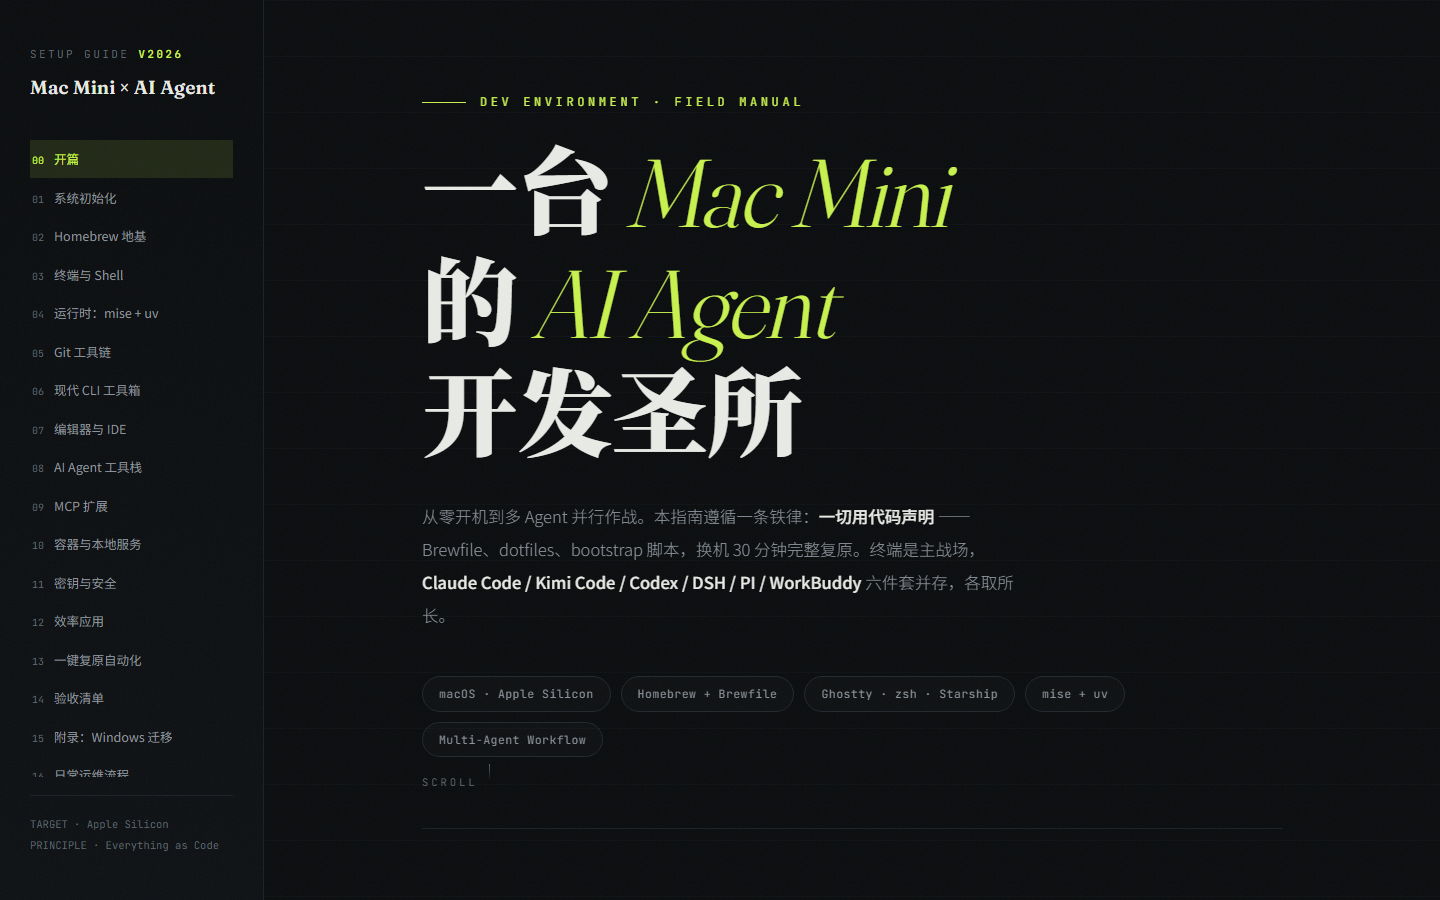
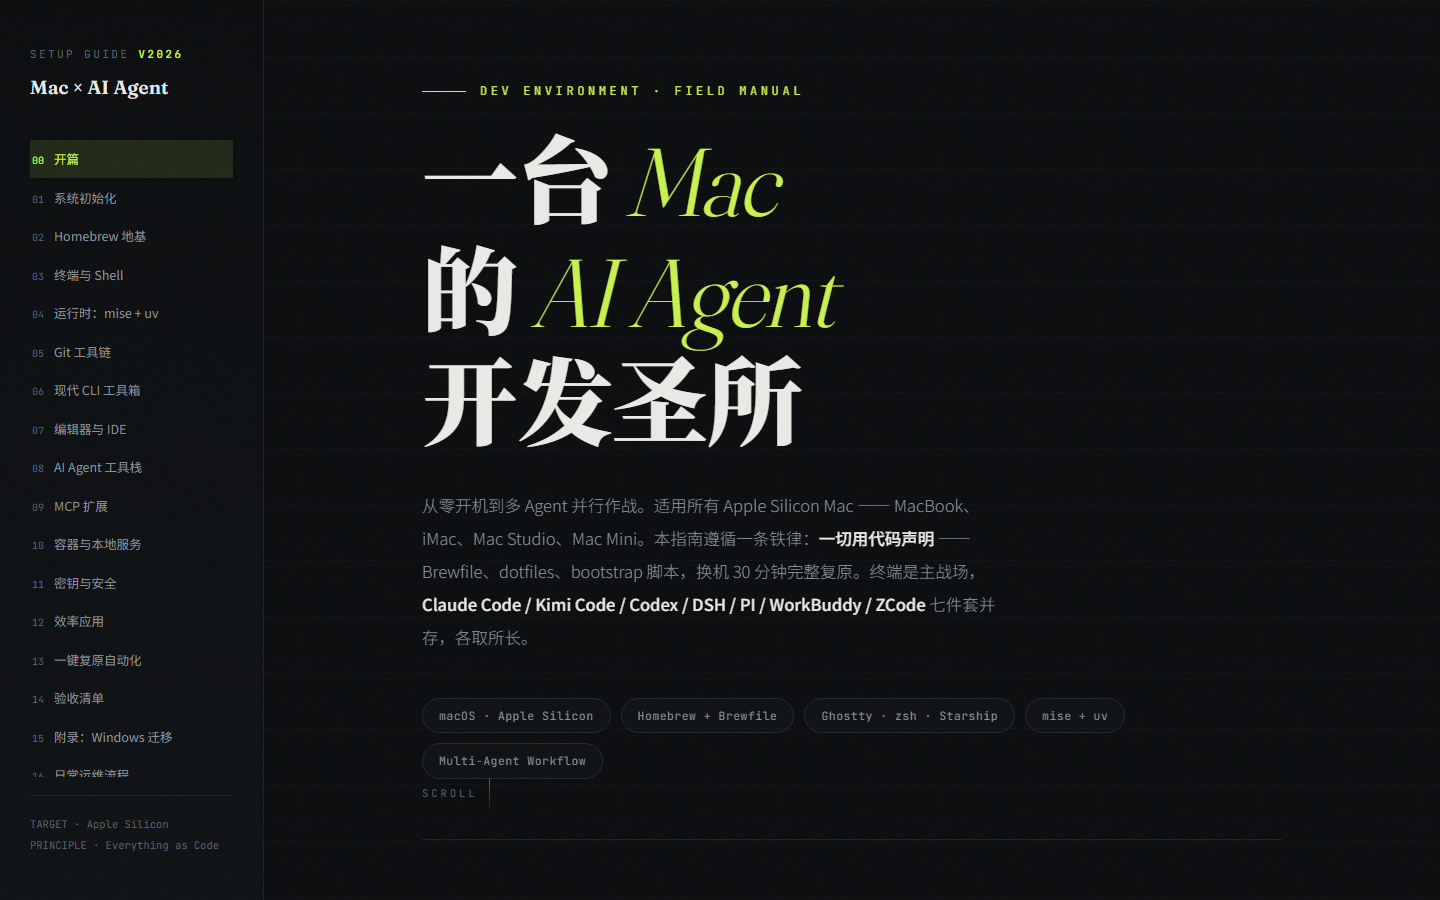
docs!: rebrand from Mac Mini to Mac, applicable to all Apple Silicon Macs

diff --git a/mac-mini-ai-dev-setup.html b/mac-mini-ai-dev-setup.html
@@ -3,7 +3,7 @@
 <head>
 <meta charset="UTF-8">
 <meta name="viewport" content="width=device-width, initial-scale=1.0">
-<title>Mac Mini × AI Agent — 开发环境完全配置指南</title>
+<title>Mac × AI Agent — 开发环境完全配置指南</title>
 <link rel="preconnect" href="https://fonts.googleapis.com">
 <link rel="preconnect" href="https://fonts.gstatic.com" crossorigin>
 <link href="https://fonts.googleapis.com/css2?family=Fraunces:opsz,wght@9..144,300;9..144,600;9..144,900&family=Noto+Serif+SC:wght@600;900&family=Noto+Sans+SC:wght@300;400;500;700&family=JetBrains+Mono:ital,wght@0,400;0,600;1,400&display=swap" rel="stylesheet">
@@ -274,7 +274,7 @@ footer .sig{font-family:var(--serif);font-style:italic;font-size:15px;color:var(
 
 <aside>
   <div class="brand">SETUP GUIDE <b>v2026</b></div>
-  <div class="brand-sub">Mac Mini × AI Agent</div>
+  <div class="brand-sub">Mac × AI Agent</div>
   <nav id="nav">
     <a href="#hero"><span class="no">00</span>开篇</a>
     <a href="#s01"><span class="no">01</span>系统初始化</a>
@@ -303,8 +303,8 @@ footer .sig{font-family:var(--serif);font-style:italic;font-size:15px;color:var(
 <!-- ================= HERO ================= -->
 <header class="hero" id="hero">
   <div class="kicker">Dev Environment · Field Manual</div>
-  <h1 class="reveal">一台 <span class="ital">Mac Mini</span><br><span class="cjk">的</span> <span class="ital">AI Agent</span><br><span class="cjk">开发圣所</span></h1>
-  <p class="lede reveal">从零开机到多 Agent 并行作战。本指南遵循一条铁律：<strong>一切用代码声明</strong> —— Brewfile、dotfiles、bootstrap 脚本，换机 30 分钟完整复原。终端是主战场，<strong>Claude Code / Kimi Code / Codex / DSH / PI / WorkBuddy / ZCode</strong> 七件套并存，各取所长。</p>
+  <h1 class="reveal">一台 <span class="ital">Mac</span><br><span class="cjk">的</span> <span class="ital">AI Agent</span><br><span class="cjk">开发圣所</span></h1>
+  <p class="lede reveal">从零开机到多 Agent 并行作战。适用所有 Apple Silicon Mac —— MacBook、iMac、Mac Studio、Mac Mini。本指南遵循一条铁律：<strong>一切用代码声明</strong> —— Brewfile、dotfiles、bootstrap 脚本，换机 30 分钟完整复原。终端是主战场，<strong>Claude Code / Kimi Code / Codex / DSH / PI / WorkBuddy / ZCode</strong> 七件套并存，各取所长。</p>
   <div class="meta reveal">
     <span class="chip">macOS · Apple Silicon</span>
     <span class="chip">Homebrew + Brewfile</span>
@@ -694,7 +694,7 @@ ssh-add --apple-use-keychain ~/.ssh/id_ed25519
     <div class="tool"><b>Shottr</b><span>截图标注 · 滚动截图 / 打码 / 量尺寸 · 免费</span></div>
     <div class="tool"><b>LocalSend</b><span>跨平台 AirDrop · 免费开源</span><span class="tip-bubble"><b>Windows ↔ Mac 互传</b>同一局域网下直接拖文件，不用命令不用线。第 15 章迁移小文件的最省事路径。</span></div>
     <div class="tool"><b>IINA</b><span>视频播放器 · macOS 原生最强 · 免费开源</span></div>
-    <div class="tool"><b>Tailscale</b><span>mesh VPN · 个人免费</span><span class="tip-bubble"><b>Mac Mini 常开的绝配</b>装好后，你在公司 / 外面能安全 SSH 回家里这台 Mac Mini，跑在上面的 Agent 任务随时接管。</span></div>
+    <div class="tool"><b>Tailscale</b><span>mesh VPN · 个人免费</span><span class="tip-bubble"><b>Mac 常开的绝配</b>装好后，你在公司 / 外面能安全 SSH 回家里这台 Mac，跑在上面的 Agent 任务随时接管。</span></div>
   </div>
   <div class="note reveal"><b>按需自选：</b>LibreOffice（办公套件）、Typora（Markdown 写作，$15 买断）、Spotify、Dropbox。</div>
 </section>
@@ -812,7 +812,7 @@ scp -r /c/Users/TUF/Workspace/&lt;项目&gt; user@&lt;mac-ip&gt;:~/Workspace/
 
 <footer>
   <div class="sig">Crafted for the agentic era.</div>
-  <div>MAC MINI × AI AGENT · SETUP FIELD MANUAL · 2026</div>
+  <div>MAC × AI AGENT · SETUP FIELD MANUAL · 2026</div>
 </footer>
 
 </div><!-- /wrap -->

diff --git a/mac-mini-ai-dev-setup.md b/mac-mini-ai-dev-setup.md
@@ -1,6 +1,6 @@
-# Mac Mini × AI Agent 开发环境完全配置指南
+# Mac × AI Agent 开发环境完全配置指南
 
-> 目标：在一台全新的 Apple Silicon Mac Mini 上，搭建一套**面向 AI Agent 开发**的现代化、可复现、可配置的终极开发环境。
+> 目标：在一台全新的 Apple Silicon Mac 上，搭建一套**面向 AI Agent 开发**的现代化、可复现、可配置的终极开发环境。适用于 MacBook Air/Pro、iMac、Mac Studio、Mac Mini——一切 Apple Silicon Mac。
 >
 > 原则：一切用代码声明（Brewfile / dotfiles / setup 脚本），换机 30 分钟内完整复原；终端优先（AI Agent 的主战场在终端）；多 Agent 并存（Claude Code / Kimi Code / Codex / DSH / PI / WorkBuddy / ZCode 各取所长）。
 
@@ -386,11 +386,11 @@ brew install --cask \
   shottr \           # 截图标注：滚动截图/打码/量尺寸，免费
   localsend \        # 跨平台 AirDrop：Windows ↔ Mac 互传文件（见第 15 章）
   iina \             # 视频播放器：macOS 原生最强
-  tailscale          # mesh VPN：Mac Mini 常开当 home server，外网安全访问
+  tailscale          # mesh VPN：Mac 常开当 home server，外网安全访问
 ```
 
 - **Obsidian 的战略价值**：笔记存纯 `.md` 文件——你写的知识库，Agent 可以直接读、直接整理，这是 AI 时代笔记软件和普通文档的分水岭。
-- **Tailscale 的场景**：Mac Mini 常年开着，装好 Tailscale 后，你在公司/外面能安全 SSH 回家里这台机器，跑在上面的 Agent 任务随时接管。
+- **Tailscale 的场景**：Mac 常年开着，装好 Tailscale 后，你在公司/外面能安全 SSH 回家里这台机器，跑在上面的 Agent 任务随时接管。
 - 按需自选：LibreOffice（办公套件）、Typora（Markdown 写作，$15 买断）、Spotify、Dropbox。
 
 收费情况[^free-apps]：Rectangle、AltTab、Stats、Karabiner-Elements **全部免费开源**；Raycast 免费档已覆盖启动器/剪贴板/窗口管理核心功能，Pro（约 $8/月）主要买 AI 与云同步——AI 需求都在终端 Agent 上，免费档够用。第二梯队中 Chrome、Obsidian、LocalSend、IINA 免费，Shottr 免费（Pro 可选），Tailscale 个人免费档够用。

diff --git a/README.md b/README.md
@@ -1,10 +1,10 @@
 <div align="center">
 
-# 🖥 Mac Mini × AI Agent — 开发环境完全配置指南
+# 🖥 Mac × AI Agent — 开发环境完全配置指南
 
 **The Ultimate macOS Setup for AI-Agent-Driven Development (2026)**
 
-在一台全新的 Apple Silicon Mac Mini 上，搭建面向 AI Agent 开发的<br>
+在任何一台 Apple Silicon Mac（MacBook / iMac / Mac Studio / Mac Mini）上，搭建面向 AI Agent 开发的<br>
 现代化、可复现、可配置的终极开发环境
 
 [![macOS](https://img.shields.io/badge/macOS-Apple%20Silicon-000000?logo=apple&logoColor=white)](https://www.apple.com/macos/)
@@ -28,7 +28,7 @@
 
 ## ✨ 这是什么
 
-一份 2026 年视角的 Mac 开发环境搭建手册，覆盖一台新 Mac Mini 从开箱到长期运维的**完整生命周期**：
+一份 2026 年视角的 Mac 开发环境搭建手册，覆盖一台新 Mac 从开箱到长期运维的**完整生命周期**：
 
 ```
 初始化 (§1-12)  →  资产化 (§13)  →  验收 (§14)  →  旧机迁移 (§15)  →  日常运维 (§16)
@@ -116,7 +116,7 @@ Config     Homebrew Brewfile · chezmoi · bootstrap.sh · dotsync
 
 ## 🔎 SEO Keywords
 
-macOS setup, Mac Mini developer environment, AI coding agents, Claude Code, Kimi Code, Codex CLI, DeepSeek Harness, dotfiles, chezmoi, Homebrew Brewfile, Ghostty terminal, mise, uv, OrbStack, 开发环境配置, 苹果电脑开发环境, AI 编程工具
+macOS setup, Mac developer environment, Mac Mini, MacBook, AI coding agents, Claude Code, Kimi Code, Codex CLI, DeepSeek Harness, dotfiles, chezmoi, Homebrew Brewfile, Ghostty terminal, mise, uv, OrbStack, 开发环境配置, 苹果电脑开发环境, AI 编程工具
 
 ## 📄 License
 

diff --git a/CHANGELOG.md b/CHANGELOG.md
@@ -5,6 +5,13 @@
 格式遵循 [Keep a Changelog](https://keepachangelog.com/zh-CN/1.1.0/)，
 版本号遵循 [语义化版本](https://semver.org/lang/zh-CN/)：内容新增用 minor，修订与勘误用 patch，结构重构用 major。
 
+## [2.0.0] - 2026-08-27
+
+### 变更
+
+- **品牌更名**：「Mac Mini × AI Agent」→「Mac × AI Agent」——手册内容本就适用于所有 Apple Silicon Mac（MacBook / iMac / Mac Studio / Mac Mini），标题与正文同步调整，并明确标注适用范围
+- README / HTML / AGENTS.md 全部同步更名，Hero 截图与社交分享图重制
+
 ## [1.1.0] - 2026-08-27
 
 ### 新增

diff --git a/AGENTS.md b/AGENTS.md
@@ -4,7 +4,7 @@
 
 ## 项目概况
 
-《Mac Mini × AI Agent — 开发环境完全配置指南》。内容型仓库：一份 16 章的 macOS AI Agent 开发环境手册，以 MD 和 HTML 双形态发布，GitHub Pages 自动部署。
+《Mac × AI Agent — 开发环境完全配置指南》。内容型仓库：一份 16 章的 macOS AI Agent 开发环境手册（适用所有 Apple Silicon Mac），以 MD 和 HTML 双形态发布，GitHub Pages 自动部署。
 
 ## 文件结构与职责
 
